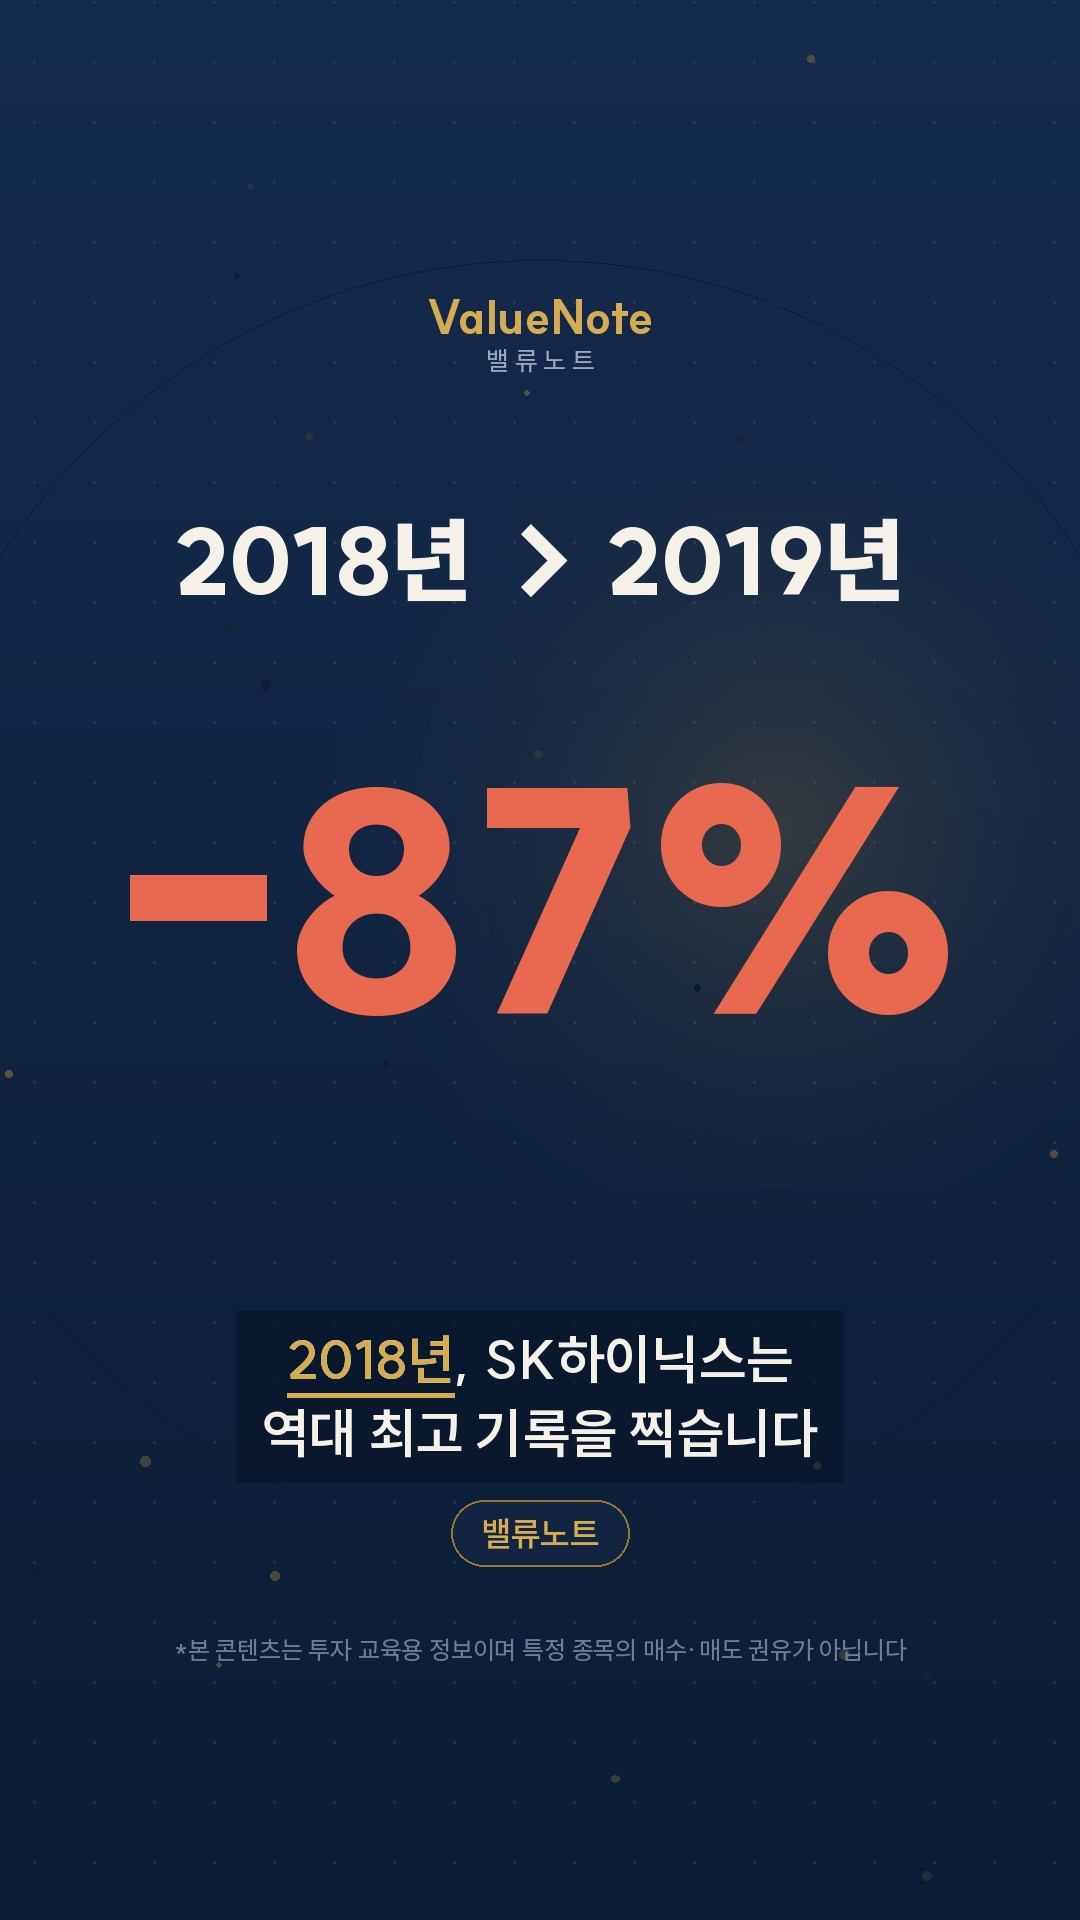
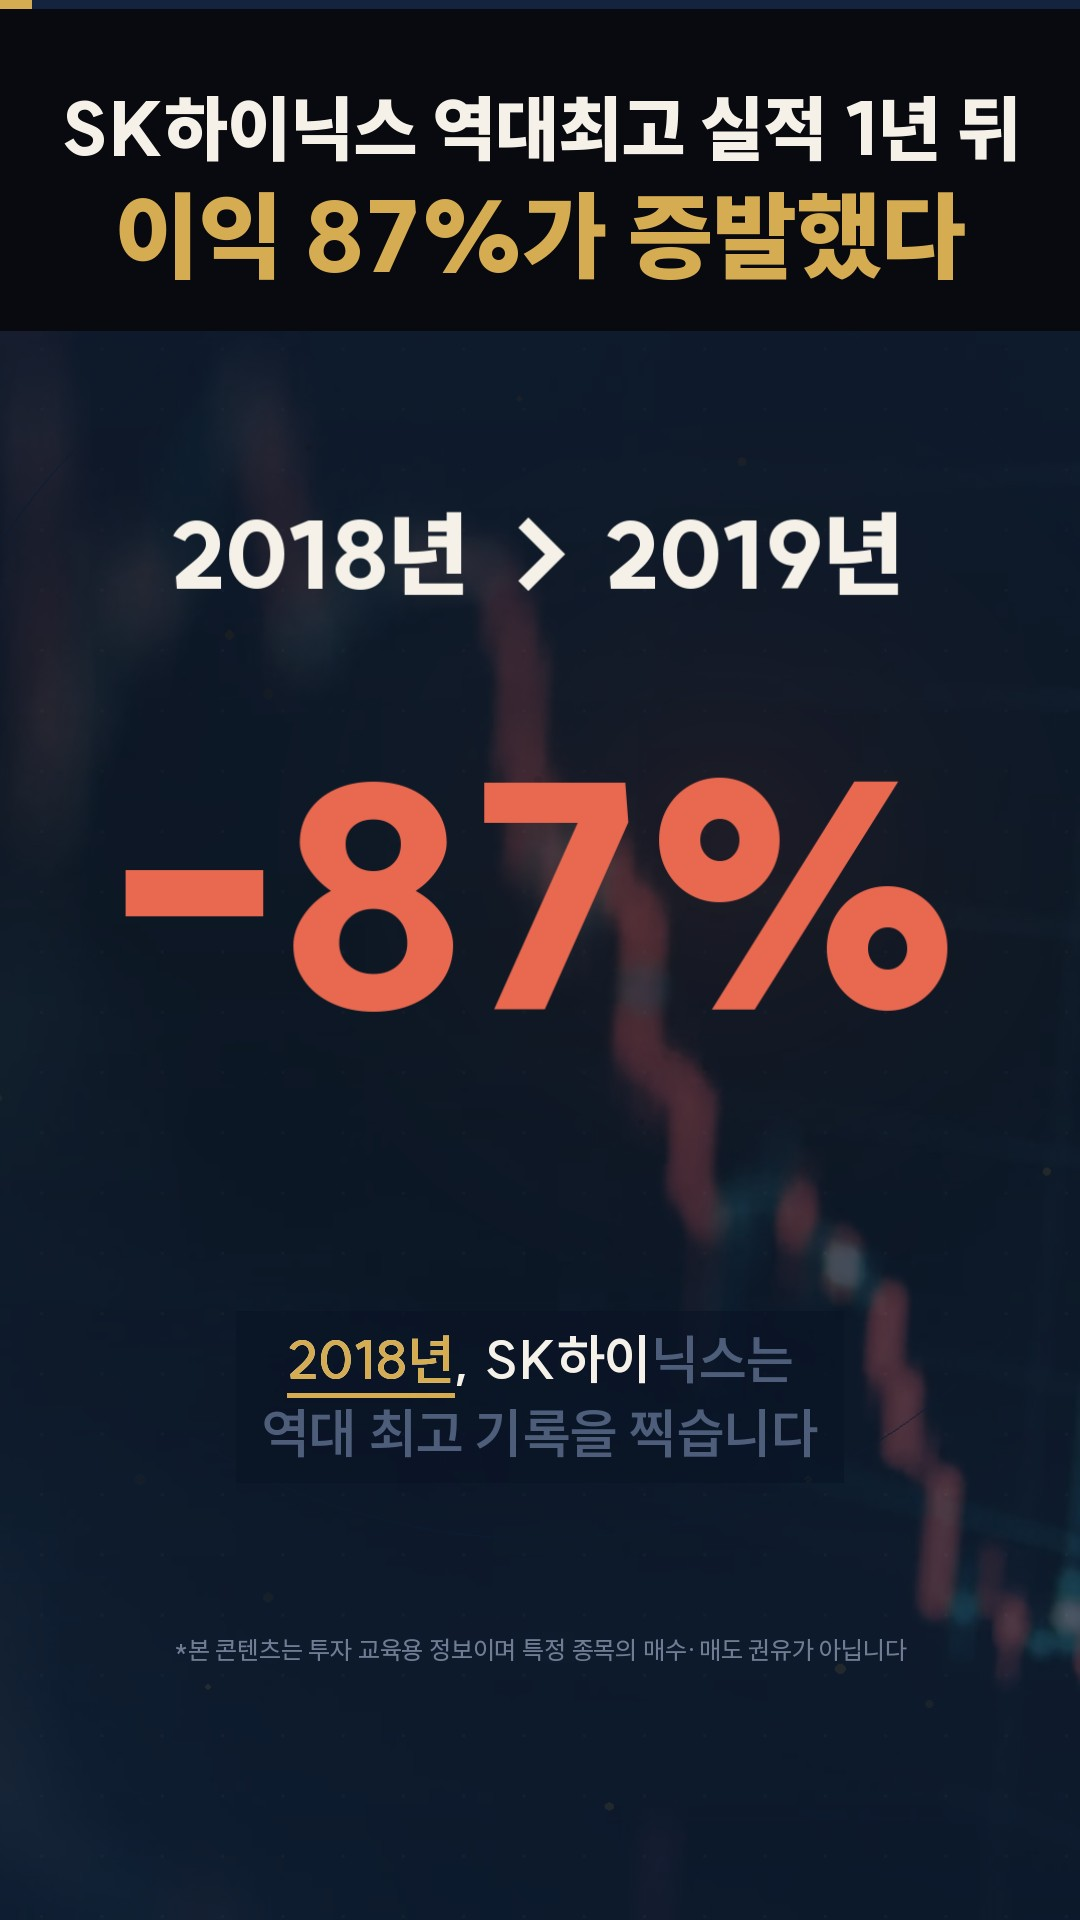
유튜브 쇼츠 표지: 상단 제목 띠가 들어간 첫 장면으로
Claude-Session: https://claude.ai/code/session_014hVQeapdJpY35t5sjvXoW9

diff --git a/scripts/reels/engine.py b/scripts/reels/engine.py
@@ -1155,7 +1155,7 @@ def render(spec, outdir, stills=None):
     for i in range(int(total * FPS)):
         p.stdin.write(frame(i / FPS, scenes, total).tobytes())
     p.stdin.close(); p.wait(); os.remove(wav)
-    (cover_title(spec, scenes) if spec.get("cover_style", COVER_STYLE) == "title" else cover(spec, scenes)).save(os.path.join(outdir, "cover.jpg"), quality=90)
+    (frame(min(1.6, scenes[0]["dur"] - .1), scenes, total).convert("RGB") if YT_BANNER else cover_title(spec, scenes) if spec.get("cover_style", COVER_STYLE) == "title" else cover(spec, scenes)).save(os.path.join(outdir, "cover.jpg"), quality=90)
     open(os.path.join(outdir, "cover.v"), "w").write(str(COVER_V))
     return total
 
